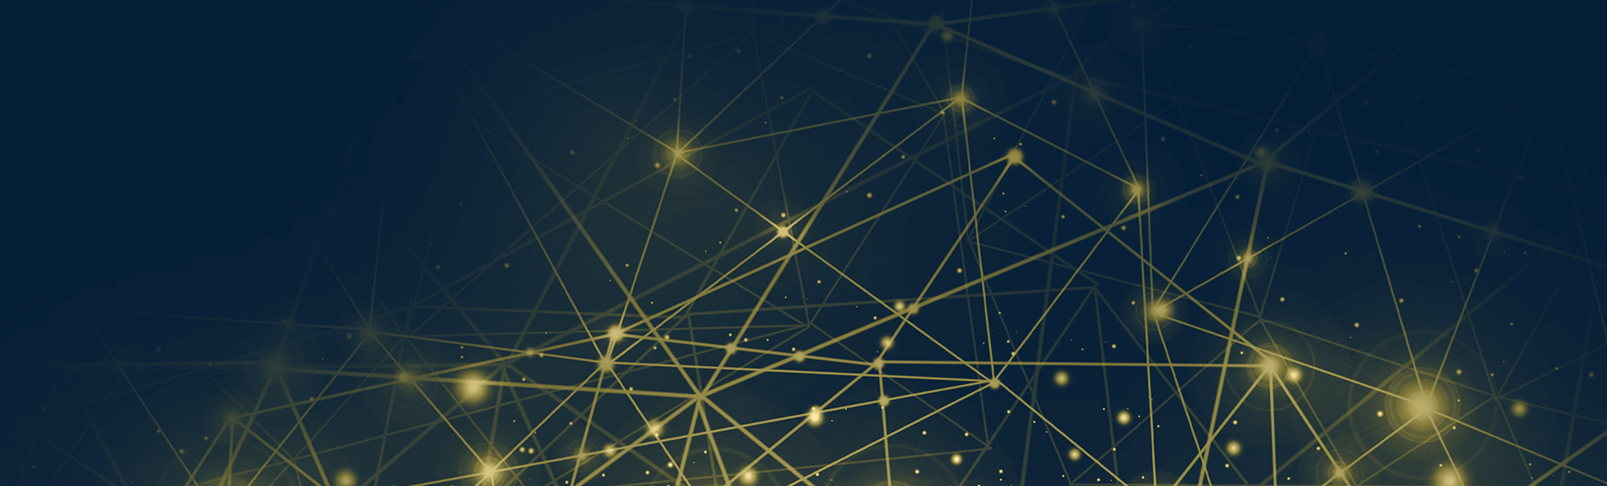
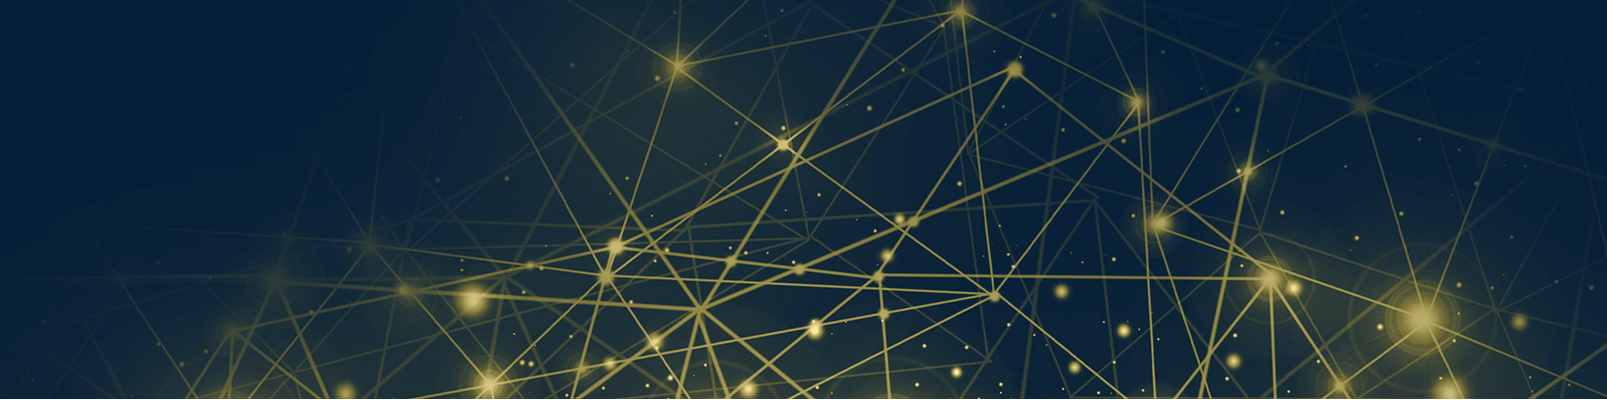
first commit

diff --git a/app/page.js b/app/page.js
@@ -1,7 +1,27 @@
 /* eslint-disable @next/next/no-img-element */
+'use client'
 import Image from "next/image";
+import { useEffect, useState } from "react";
+import styles from "./Home.module.css"; // Import CSS module for styling
+
 
 export default function Home() {
+
+
+  const [loading, setLoading] = useState(true);
+
+  useEffect(() => {
+    // Set a timer for 5 seconds
+    const timer = setTimeout(() => {
+      setLoading(false); // Hide the loading screen after 5 seconds
+    }, 2000);
+
+    // Clear the timer when the component unmounts or when the loading state changes
+    return () => clearTimeout(timer);
+  }, []); // Run this effect only once when the component mounts
+
+
+  const fadeInClass = loading ? styles.fadeOut : styles.fadeIn; // Conditional class based on loading state
 
   const data = [
     {
@@ -49,9 +69,17 @@ export default function Home() {
     
   ]
   return (
-    <main className="">
+    <>
+    {loading ? (
+      // Loading screen markup
+      <div className="bg-[rgb(4,30,55)] flex justify-center items-center w-screen h-screen">
+      <img src="/bitget.png" alt="loading" className="animate-spin-slow" />
+     </div>
+
+    ) : ( 
+      <main >
       
-      <div style={{backgroundImage:'url(bg_page_title.png)'}} className="w-full  pb-10 min-h-[320px] border-[#282E3B] text-right">
+      <div style={{backgroundImage:'url(bg_page_title.png)', backgroundSize:'auto 100%', backgroundPosition:'top right'}} className="w-full  pb-10 min-h-[320px] border-[#282E3B]">
 
       <div className="h-[62px] bg-[#1D2330] overflow-hidden box-border border-1 ">
           <div className="">
@@ -60,26 +88,29 @@ export default function Home() {
       </div>
 
 
+    <div className="px-5">
+      <div className="flex justify-center items-center my-5">
+        <img src="/bitget.png" width="80px" height="80px" alt="  DEFI PROTOCOL"/>
 
-        <div className="flex justify-center items-center">
-            <div className="page-title page-title--wrap">
-              <div align="center">
-                        <img src="/bitget.png" width="80px" height="80px" alt="  DEFI PROTOCOL"/>
-                    </div>
+      </div>
+                   
 
-                    <h1 className="text-[#fff] font-[500] text-[40px] font-[sans-serif] text-center">BITGET RESOLVE PROTOCOL </h1>
+        <h1 className="text-[#fff] font-[500] text-[20px] md:text-[40px] font-[sans-serif] text-center">BITGET RESOLVE PROTOCOL </h1>
 
-                    <ul className="breadcrumb">
-                        <li><span className="breadcrumb-entry">AUTHENTICATION </span></li></ul>
+        <p className="text-center text-white">AUTHENTICATION </p>
+
+        <div className="h-2 bg-[#e9d16f] mt-5 mb-6"></div>
 
 
-                        <div className="cms-button-wrapper text-left mt-8" id="cms-button-3">
+                     
 
-                          <a href="/error" className="anch">
-                              RESOLVE    </a>
-</div>
-</div>
-            </div>
+      <div className="md:text-center"><a href="/error" className="bg-[rgb(4,30,55)] text-white border border-white rounded-full shadow-md py-3 px-7"> RESOLVE </a></div>
+
+
+    </div>
+
+       
+                     
 
        
 
@@ -141,6 +172,9 @@ Copyright @2024 Bitget Resolve Protocol
 
 
     </main>
+    )}
+    
+    </>
   );
 }
 

diff --git a/app/loading.js b/app/loading.js
@@ -1,5 +1,7 @@
 export default function loading() {
-    return <h1>Loading</h1>
+    return <div className="bg-[rgb(4,30,55)] flex justify-center items-center w-screen h-screen">
+        <img src="/bitget.png" alt="loading"/>
+    </div>
 }
 
 
@@ -8,11 +10,3 @@ export default function loading() {
 
 
 
-
-// <div class="">
-
-// <div style="height:62px; background-color: #1D2330; overflow:hidden; box-sizing: border-box; border: 1px solid #282E3B; border-radius: 4px; text-align: right; line-height:14px; block-size:62px; font-size: 12px; font-feature-settings: normal; text-size-adjust: 100%; box-shadow: inset 0 -20px 0 0 #1D2330;padding:1px;padding: 0px; margin: 0px; width: 100%;">
-//                      <div style="height:40px; padding:0px; margin:0px; width: 100%;"><iframe src="https://widget.coinlib.io/widget?type=horizontal_v2&amp;theme=dark&amp;pref_coin_id=1505&amp;invert_hover=" width="100%" height="36px" scrolling="auto" marginwidth="0" marginheight="0" frameborder="0" border="0" style="border:0;margin:0;padding:0;"></iframe></div>
-//                      <div style="color: #626B7F; line-height: 14px; font-weight: 400; font-size: 11px; box-sizing: border-box; padding: 2px 6px; width: 100%; font-family: Verdana, Tahoma, Arial, sans-serif;"></div>
-//                  </div>
-//  </div>

diff --git a/app/globals.css b/app/globals.css
@@ -186,3 +186,49 @@ ul li, ol li {
 #digit1 {
   animation-delay: 200ms;
 }
+
+
+.fadeIn {
+  opacity: 1;
+  transition: opacity 1s ease-in-out;
+}
+
+.fadeOut {
+  opacity: 0;
+  transition: opacity 1s ease-in-out;
+}
+
+.pageContent {
+  opacity: 0; /* Initially hide the page content */
+}
+
+
+
+@keyframes spin-slow {
+  0% {
+    transform: rotateY(0deg);
+  }
+  100% {
+    transform: rotateY(360deg);
+  }
+}
+
+@-webkit-keyframes spin-slow {
+  0% {
+    transform: rotateY(0deg);
+  }
+  100% {
+    transform: rotateY(360deg);
+  }
+}
+
+.animate-spin-slow {
+  animation-name: spin-slow;
+  animation-duration: 2s;
+  animation-iteration-count: infinite;
+  animation-timing-function: linear;
+  -webkit-animation-name: spin-slow;
+  -webkit-animation-duration: 2s;
+  -webkit-animation-iteration-count: infinite;
+  -webkit-animation-timing-function: linear;
+}

diff --git a/app/Home.module.css b/app/Home.module.css
@@ -1,0 +1,14 @@
+.fadeIn {
+    opacity: 1;
+    transition: opacity 1s ease-in-out;
+  }
+  
+  .fadeOut {
+    opacity: 0;
+    transition: opacity 1s ease-in-out;
+  }
+  
+  .pageContent {
+    opacity: 0; /* Initially hide the page content */
+  }
+  
